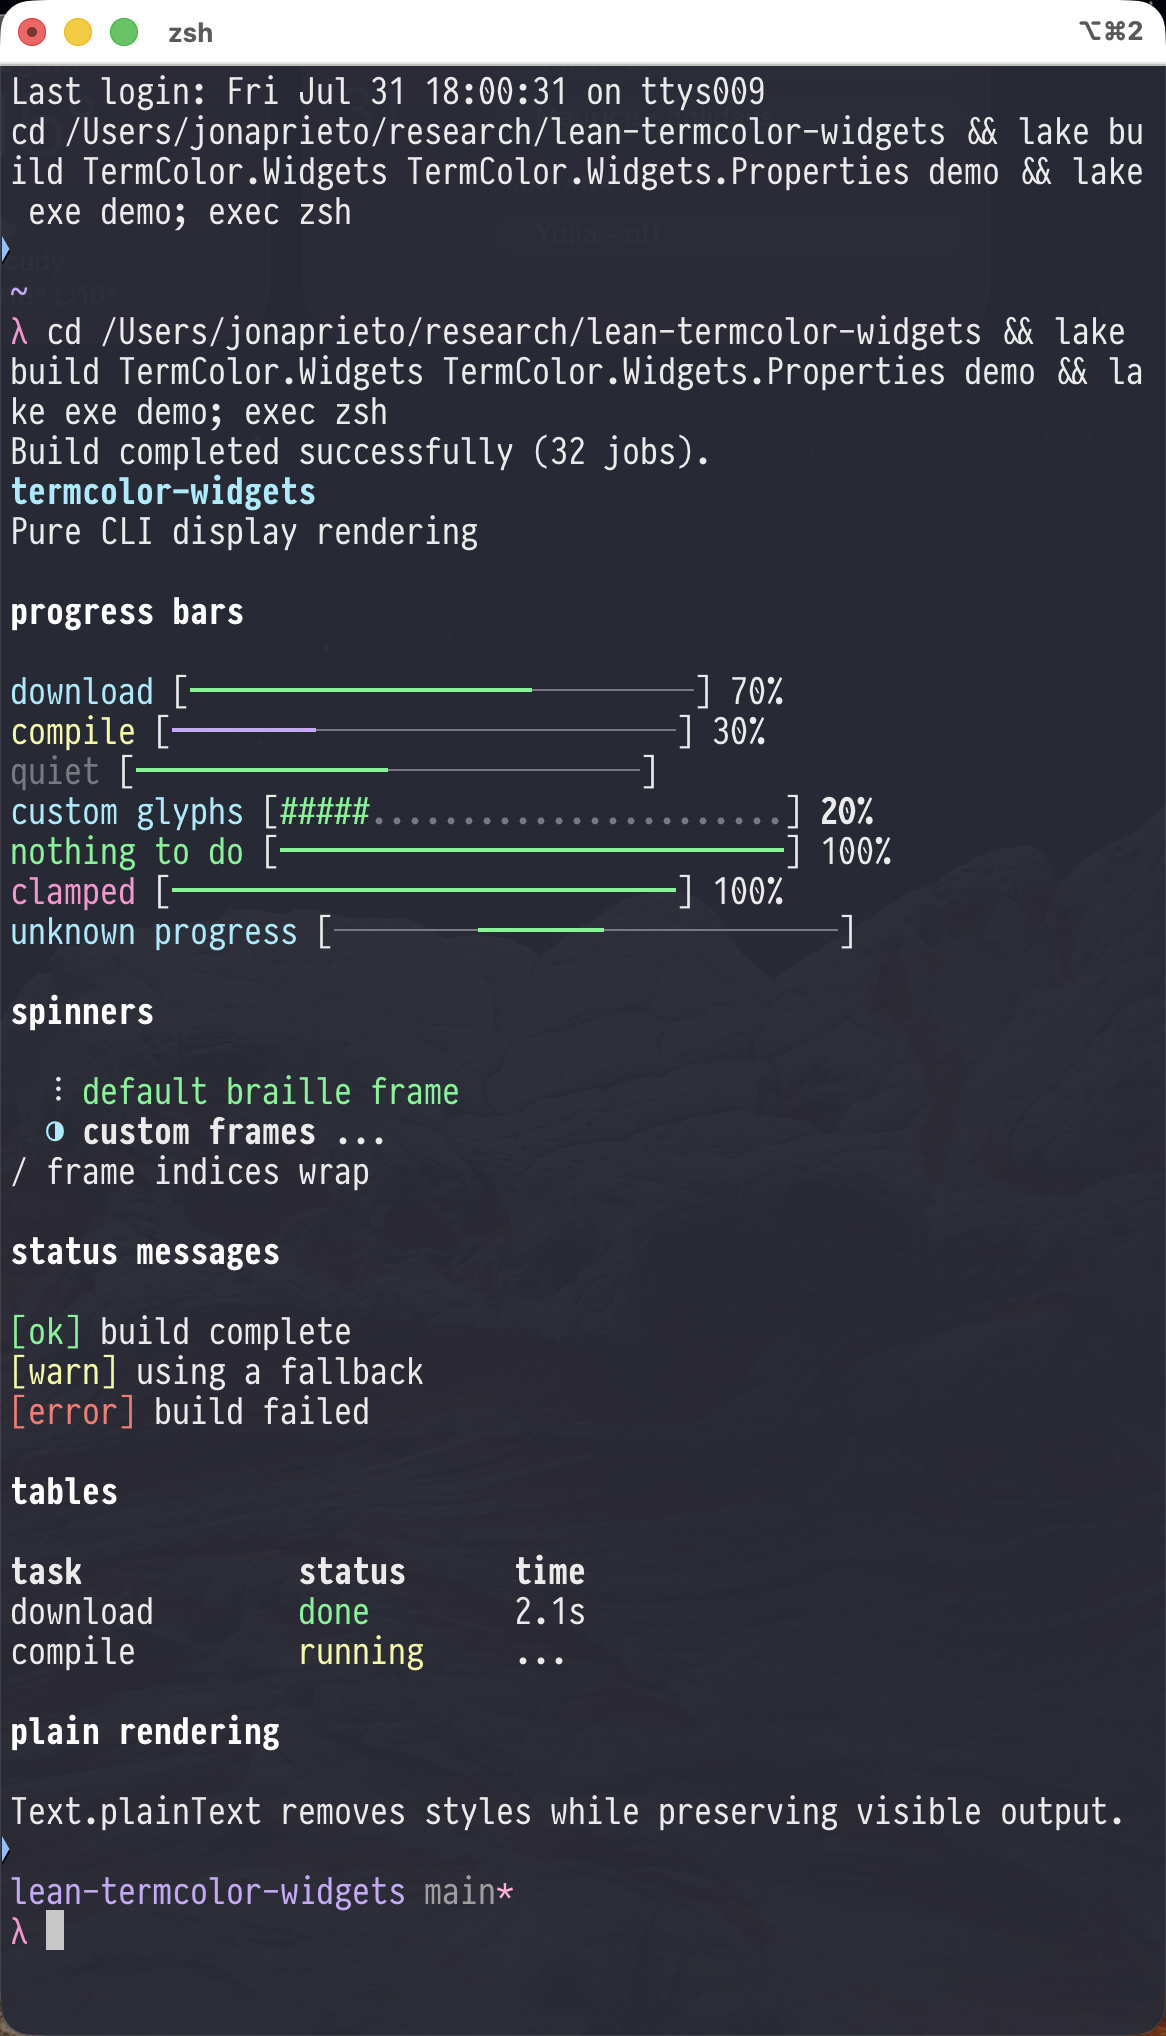
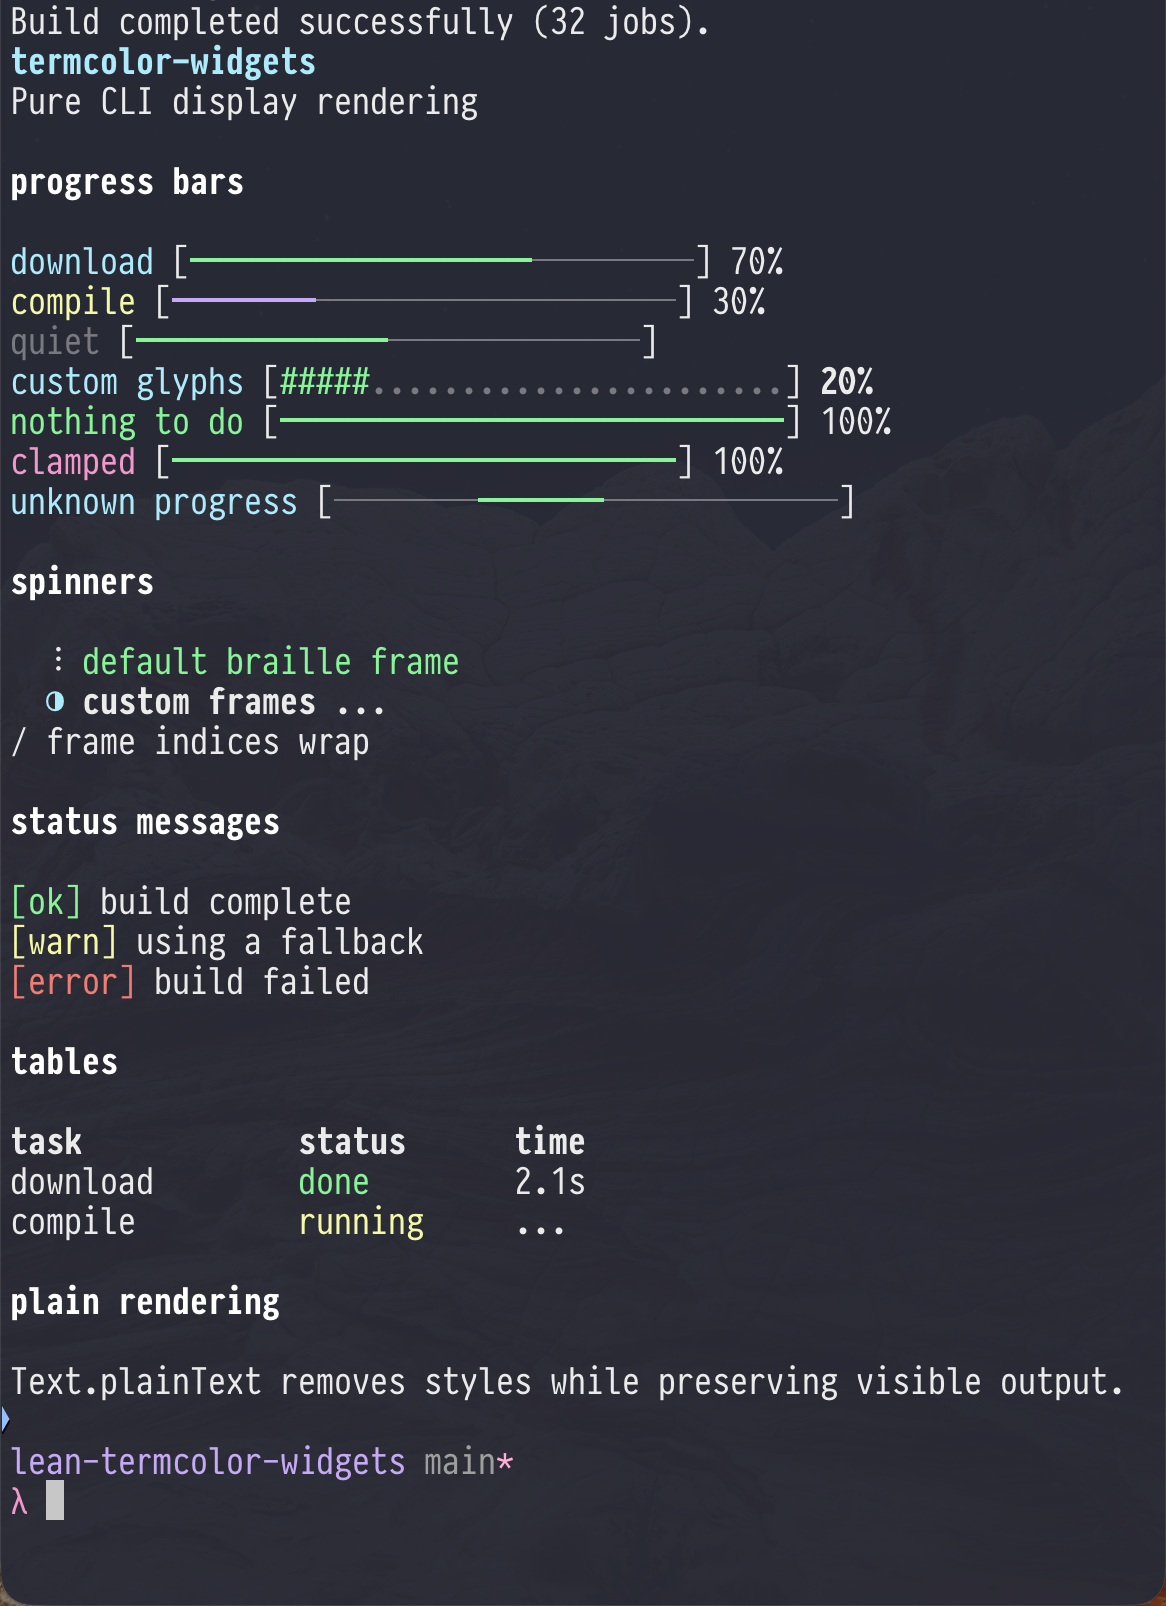
docs: clean widgets demo

diff --git a/README.md b/README.md
@@ -11,6 +11,9 @@ There is no IO, cursor control, timer, or FFI dependency.
 The package depends on [`termcolor-layout`](https://github.com/jonaprieto/lean-termcolor-layout) for
 styled text and display-width-aware layout.
 
+[`termcolor-terminal`](https://github.com/jonaprieto/lean-termcolor-terminal) supplies the live
+terminal integration for these pure views.
+
 ## Widgets
 
 `progressBar` covers known totals, while `indeterminateProgressBar` gives unknown-duration work a
